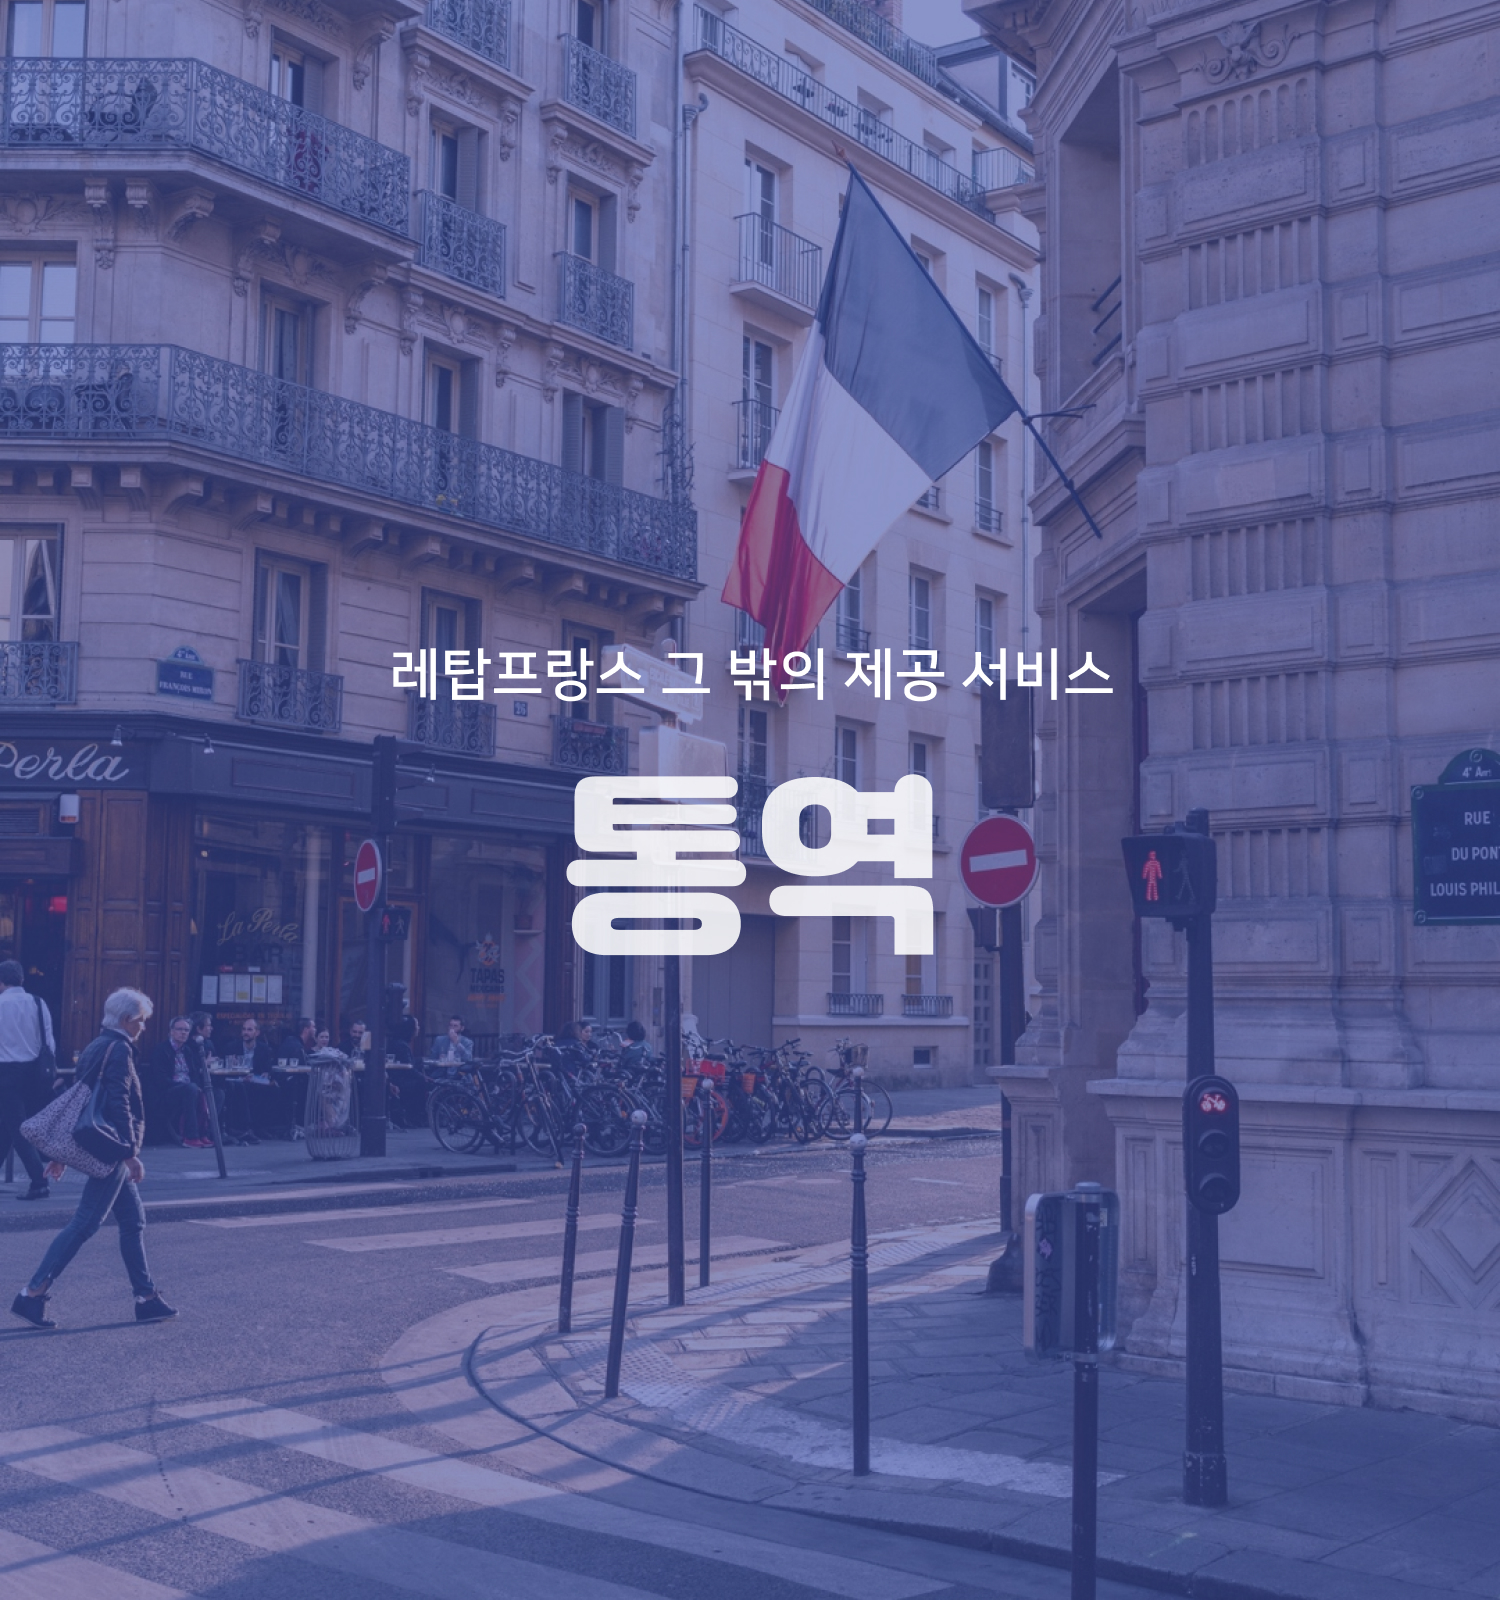
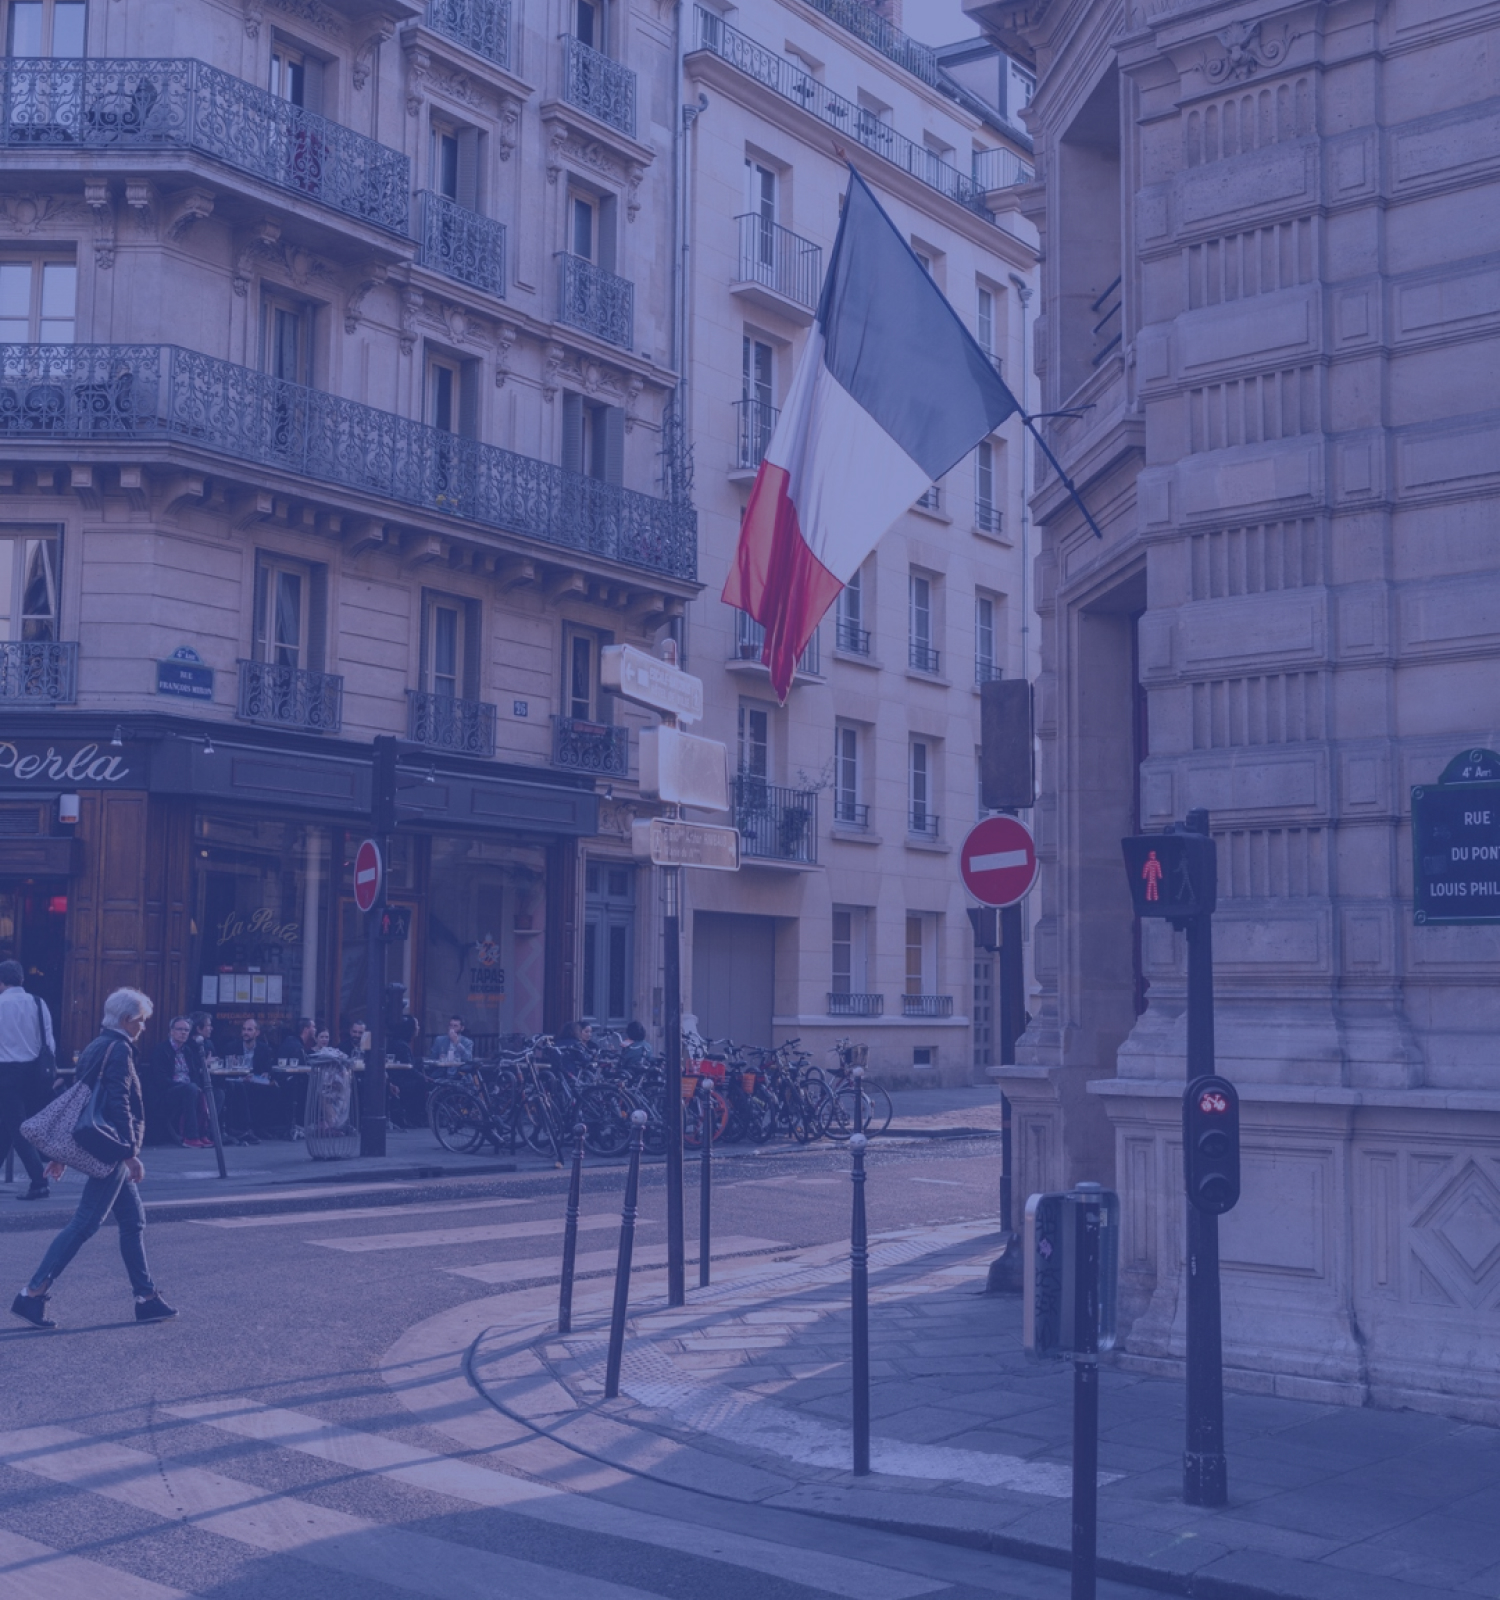
유학 페이지 이미지 슬라이더 변경, 메인 페이지 강사소개 링크 변경

Changed region(s): [[0.368, 0.4688, 0.644, 0.625], [0.2453, 0.4062, 0.736, 0.4375]]

diff --git a/subPages/anotherService.html b/subPages/anotherService.html
@@ -41,11 +41,35 @@
 
     <section>
         <div class="headerBlank"></div>
-        <ul class="bxslider">
-            <li class="bxsliderImg01"><img src="../images/subPages/lf_subPages_another_main_img01.jpg" alt="유학이미지"></li>
-            <li class="bxsliderImg02"><img src="../images/subPages/lf_subPages_another_main_img02.jpg" alt="통역이미지"></li>
-            <li class="bxsliderImg03"><img src="../images/subPages/lf_subPages_another_main_img03.jpg" alt="번역이미지"></li>
-            <li class="bxsliderImg04"><img src="../images/subPages/lf_subPages_another_main_img04.jpg" alt="현지정착이미지"></li>
+        <ul class="bxslider surface_white">
+            <li class="bxsliderImg01">
+                <div class="anotherServiceSlider_textWrap">
+                    <p class="nanumsquareH5Regular" style="padding-bottom: 1rem;">레탑프랑스는 당신의 꿈을 기다리고 있습니다</p>
+                    <p class="anotherServiceSlider_textWrap_title">유학 컨설팅</p>
+                </div>
+                <img src="../images/subPages/lf_subPages_another_main_img01_small.jpg" alt="유학컨설팅">
+            </li>
+            <li class="bxsliderImg02">
+                <div class="anotherServiceSlider_textWrap">
+                    <p class="nanumsquareH5Regular" style="padding-bottom: 1rem;">레탑프랑스 그 밖의 제공 서비스</p>
+                    <p class="anotherServiceSlider_textWrap_title">통역</p>
+                </div>
+                <img src="../images/subPages/lf_subPages_another_main_img02_small.jpg" alt="통역">
+            </li>
+            <li class="bxsliderImg03">
+                <div class="anotherServiceSlider_textWrap">
+                    <p class="nanumsquareH5Regular" style="padding-bottom: 1rem;">레탑프랑스 그 밖의 제공 서비스</p>
+                    <p class="anotherServiceSlider_textWrap_title">번역</p>
+                </div>
+                <img src="../images/subPages/lf_subPages_another_main_img03_small.jpg" alt="번역">
+            </li>
+            <li class="bxsliderImg04">
+                <div class="anotherServiceSlider_textWrap">
+                    <p class="nanumsquareH5Regular" style="padding-bottom: 1rem;">레탑프랑스 그 밖의 제공 서비스</p>
+                    <p class="anotherServiceSlider_textWrap_title">현지 정착</p>
+                </div>
+                <img src="../images/subPages/lf_subPages_another_main_img04_small.jpg" alt="현지 정착">
+            </li>
         </ul>
         <div class="blueLine" style="margin-bottom: 20px;"></div>
         
@@ -155,6 +179,7 @@
         list-style: none;
         width: 100%;
         height: auto;
+        display: table;
     }
     .bx-controls {
         display: none;
@@ -164,15 +189,58 @@
         border :0;
         height: auto;
     }
-    @media screen and (min-width: 768px) and (max-width: 1366px) {
+    @media screen and (max-width: 767px) {
+        .anotherServiceSlider_textWrap {
+            display: none;
+        }
+    }
+    @media screen and (min-width: 768px) and (max-width: 1023px) {
         ul { 
         width: 100%;
-        height: 600px;
+        height: 650px;
         }
         .bxslider li {
         list-style: none;
         width: 100%;
-        height: 600px;
+        height: 650px;
+        }
+        .bxslider li img {
+            display: none;
+        }
+        .bxsliderImg01 {
+            background-image: url(../images/subPages/lf_subPages_another_main_img01.jpg);
+            background-repeat: no-repeat;
+            background-position: center;
+            background-size: cover;
+        }
+        .bxsliderImg02 {
+            background-image: url(../images/subPages/lf_subPages_another_main_img02.jpg);
+            background-repeat: no-repeat;
+            background-position: center;
+            background-size: cover;
+        }
+        .bxsliderImg03 {
+            background-image: url(../images/subPages/lf_subPages_another_main_img03.jpg);
+            background-repeat: no-repeat;
+            background-position: center;
+            background-size: cover;
+        }
+        .bxsliderImg04 {
+            background-image: url(../images/subPages/lf_subPages_another_main_img04.jpg);
+            background-repeat: no-repeat;
+            background-position: center;
+            background-size: cover;
+        }
+    }
+    @media screen and (min-width: 1024px) and (max-width: 1366px) {
+        ul { 
+        width: 100%;
+        height: 900px;
+        }
+        .bxslider li {
+        list-style: none;
+        width: 100%;
+        height: 900px;
         }
         .bxslider li img {
             display: none;

diff --git a/css/common.css b/css/common.css
@@ -1,3 +1,11 @@
+@font-face {
+  font-family: "yg-jalnan";
+  src: url("https://cdn.jsdelivr.net/gh/projectnoonnu/noonfonts_four@1.2/JalnanOTF00.woff")
+    format("woff");
+  font-weight: bold;
+  font-style: normal;
+}
+
 /* Design System */
 html,
 body {
@@ -94,7 +102,16 @@ body {
   letter-spacing: 0.03rem; /* 0.4px */
   transform: skew(-0.1deg); /* 나눔스퀘어 16px이하 깨지는 현상 발생 */
 }
-
+.anotherServiceSlider_textWrap_title { /* 유학 페이지 포인트용 */
+  font-family: "yg-jalnan";
+  src: url("https://cdn.jsdelivr.net/gh/projectnoonnu/noonfonts_four@1.2/JalnanOTF00.woff")
+    format("woff");
+  font-weight: bold;
+  font-style: normal;
+  font-size: 5rem;
+  line-height: 5.19rem;
+  letter-spacing: -0.01rem;
+}
 /* Color */
 .primaryMainBg {
   background-color: #3d4fa6;
@@ -238,11 +255,16 @@ footer .footerSnsWrap a {
   background-color: #fff;
   margin: 20px 0;
 }
-/*  */
+/* 레이아웃 공통 */
 .contentsWrap {
   width: 100%;
   padding: 0 20px;
   box-sizing: border-box;
+}
+.anotherServiceSlider_textWrap {
+  text-align: center;
+  display: table-cell;
+  vertical-align: middle;
 }
 
 /* 하단 고정 */

diff --git a/index.html b/index.html
@@ -216,7 +216,7 @@
             </li>
           </ul>
           <div style="text-align: center; padding-top: 10px;" class="mainAnotherPageBtnWrap">
-            <a href="./subPages/review.html" class="anotherPageBtn nanumsquareSubtitle2Medium primaryMain">
+            <a href="./subPages/teachers.html" class="anotherPageBtn nanumsquareSubtitle2Medium primaryMain">
               강사 소개  자세히 보기
             </a>
           </div>

diff --git a/css/style_ipadpro.css b/css/style_ipadpro.css
@@ -1,10 +1,3 @@
-@font-face {
-  font-family: "yg-jalnan";
-  src: url("https://cdn.jsdelivr.net/gh/projectnoonnu/noonfonts_four@1.2/JalnanOTF00.woff")
-    format("woff");
-  font-weight: normal;
-  font-style: normal;
-}
 
 @media screen and (min-device-width: 1024px) and (max-device-width: 1366px) {
   /* 아이패드 프로 css */

diff --git a/css/style_tablet.css b/css/style_tablet.css
@@ -1,10 +1,4 @@
-@font-face {
-  font-family: "yg-jalnan";
-  src: url("https://cdn.jsdelivr.net/gh/projectnoonnu/noonfonts_four@1.2/JalnanOTF00.woff")
-    format("woff");
-  font-weight: normal;
-  font-style: normal;
-}
+
 
 @media screen and (min-width: 768px) and (max-width: 1023px) {
   /* 아이패드 CSS */

diff --git a/css/style_mobile.css b/css/style_mobile.css
@@ -1,10 +1,3 @@
-@font-face {
-  font-family: "yg-jalnan";
-  src: url("https://cdn.jsdelivr.net/gh/projectnoonnu/noonfonts_four@1.2/JalnanOTF00.woff")
-    format("woff");
-  font-weight: normal;
-  font-style: normal;
-}
 
 .classOfferList img {
   width: 24px;
